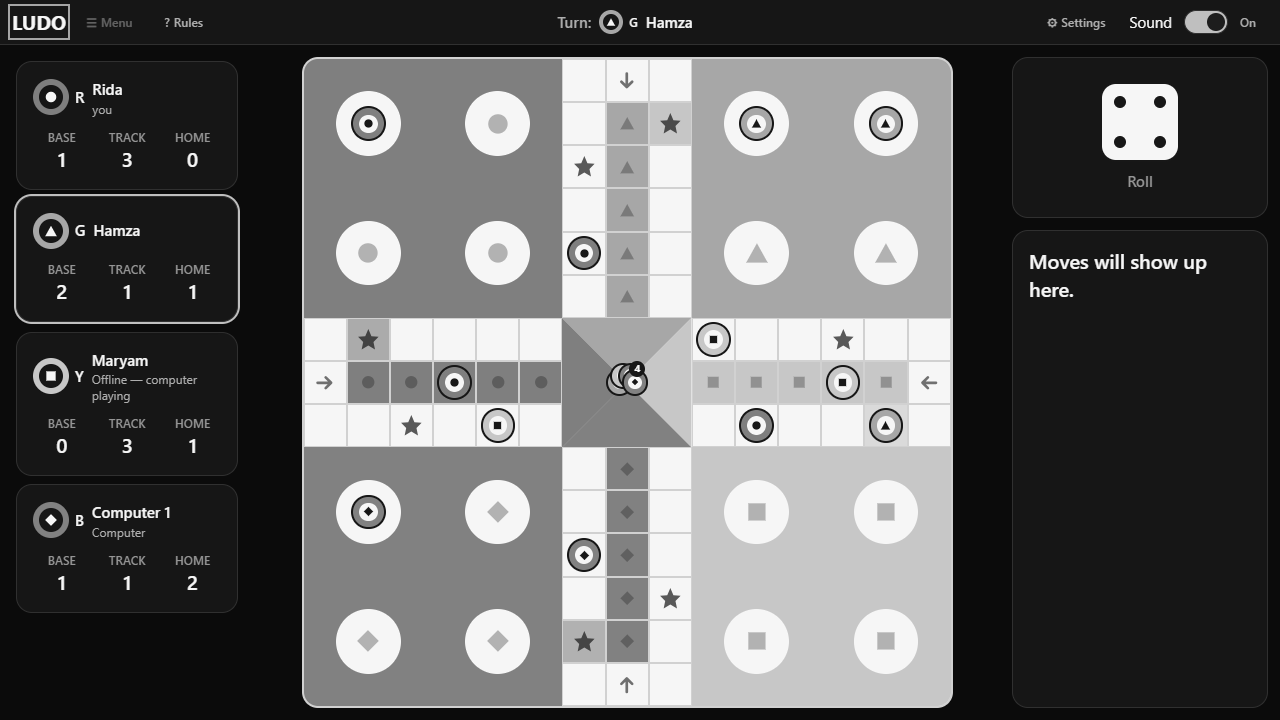
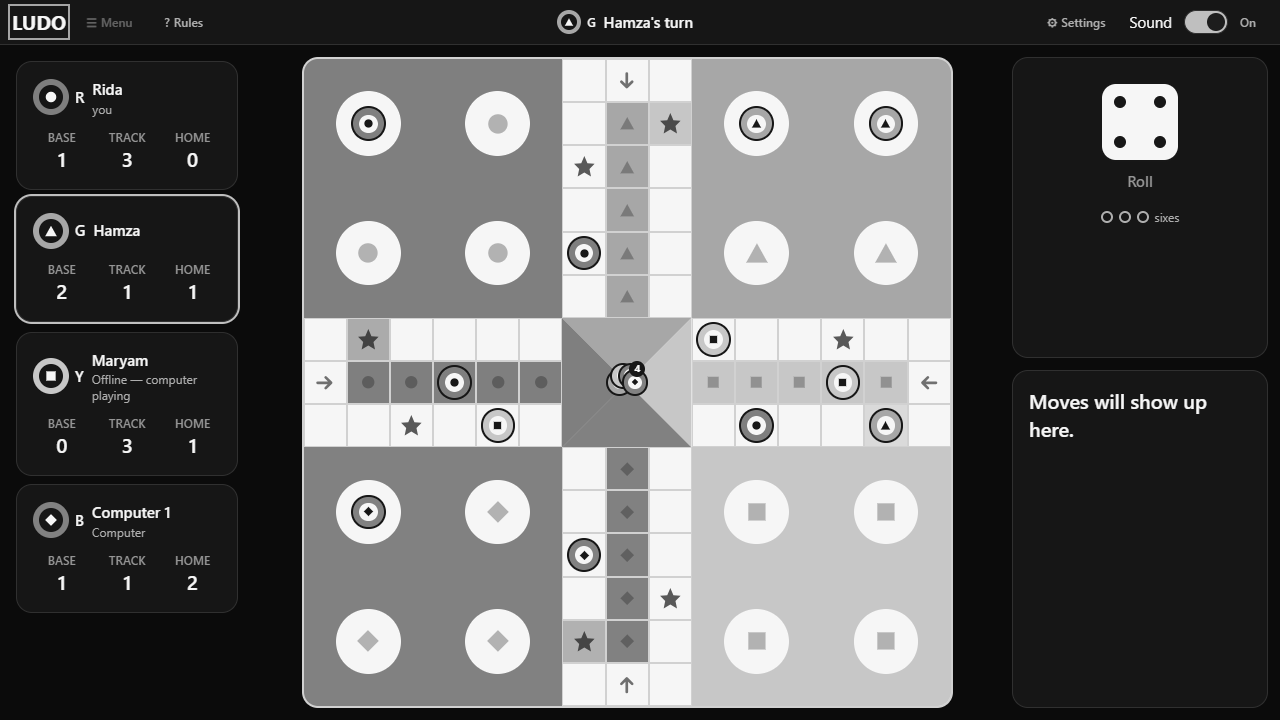
docs(traceability): record P7 evidence (FR-SYS-02, NFR-SYS-05, FR-SYS-07)
Adds the forced-roll checks against the mock and refreshes the screenshots
that the taller dice panel changed.

Changed region(s): [[0.8125, 0.275, 0.9375, 0.4278], [0.7812, 0.55, 0.9375, 0.6111], [0.4375, 0.0, 0.5312, 0.0611]]

diff --git a/docs/05-traceability.md b/docs/05-traceability.md
@@ -13,12 +13,12 @@ Status: `—` not started · `WIP` · `Done` · `Blocked (reason)`
 | D3 ID | D2 user stories | Build task(s) | Proof (test or manual check) | Status |
 |---|---|---|---|---|
 | FR-SYS-01 Start and configure | FR-01–06 | P5 | `src/screens/SetupScreen.test.tsx` and `src/screens/JoinForm.test.tsx` cover ALT-01-1 and EXC-01-1: a rejected or failed create or join keeps everything typed, shows the error under its field or as a message, and retries in one press. `src/store/gameStore.test.ts` covers the requests and `src/interaction/formChecks.test.ts` the name and code checks. `docs/evidence/FR-SYS-01-lobby-flow.md` shows it in Edge against the mock: two tabs create, join and start, with a real `NAME_TAKEN` and the server down. `docs/evidence/FR-SYS-09-game-screen-checks.md` shows 2, 3 and 4 seats in both modes reaching the real board. Only colour choice (FR-06) is left | Blocked (colour choice waits on the backend, `00-requirements.md` §5) |
-| FR-SYS-02 Turn and dice | FR-08–11 | P7 | `src/store/gameStore.test.ts` covers EXC-02-1: a second roll while one is pending sends nothing. `src/components/Dice.test.tsx` proves the die shows exactly the value it is given and ignores presses while rolling. `src/screens/GameScreen.test.tsx` proves the game screen shows `turn.lastRoll` on a die that can't be pressed yet. Still needed: rolling from the game screen; double-click sends one roll | WIP |
+| FR-SYS-02 Turn and dice | FR-08–11 | P7 | `src/store/gameStore.test.ts` covers EXC-02-1: a second roll while one is pending sends nothing. `src/components/Dice.test.tsx` proves the die shows exactly the value it is given and ignores presses while rolling. `src/screens/GameScreen.test.tsx` proves each of the five conditions alone stops a roll, a double click sends one roll, the turn text is right for each case, the die lands on the server's value, and a failed roll keeps the game and can be retried (EXC-02-2). `src/interaction/useDiceRoll.test.ts` covers the reply and the new state arriving in either order. `docs/evidence/FR-SYS-02-dice-checks.md` shows forced rolls of 1, 3 and 6 landing exactly in a real match | Done |
 | FR-SYS-03 Legal choices and move | FR-14–16, FR-18 | P8 | `src/store/gameStore.test.ts` covers EXC-03-2 in the store (an accepted move changes nothing until the snapshot arrives) and that legal moves come only from the server's list. `src/components/Piece.tsx` is a button only when it is told it can move, but has no test of its own. `src/screens/GameScreen.test.tsx` proves the board offers no piece to press until P8 connects it. Still needed: only `legalMoves` pieces are buttons; destination preview shown; EXC-03-1 | WIP |
 | FR-SYS-04 Invalid moves | FR-17 | P3, P8, P11 | `src/store/gameStore.test.ts` covers POST-04-1 (a rejected move leaves the snapshot deep-equal) and EXC-04-1 in the store (a timed-out command keeps state and clears pending). `src/adapter/LgsAdapter.test.ts` covers EXC-04-1 over a real socket (no ack, an ack for another request or an incomplete ack becomes `INTERNAL_ERROR`). Still needed: a test of the generic message (ALT-04-1); the explanation and a retry on the game screen (P8); recovery after a dropped connection (P11) | WIP |
 | FR-SYS-05 Animation and events | FR-19, FR-23, FR-36, FR-38 | P8, P9 | `src/store/gameStore.test.ts` proves an event never changes the snapshot. `src/components/MessageLog.tsx` exists but has no test of its own, and the game screen gives it no events yet. `src/components/PieceLayer.test.tsx` proves a moved piece keeps its element and lands where the geometry says, `src/feedback/motion.test.ts` covers how long it takes, and `docs/evidence/FR-SYS-09-game-screen-checks.md` measured 0 px error after a live move. It is one slide, not a step-by-step walk. Still needed: the walk (P8); animation off gives same final board; capture appears in message area | WIP |
 | FR-SYS-06 Progress and completion | FR-25–29 | P6, P10 | `src/config/geometry.test.ts` covers `progressCounts` and `src/store/gameStore.test.ts` covers `selectProgress` and `selectPlayerProgress`. `src/screens/GameScreen.test.tsx` checks Base, Track and Home against written-out numbers for all six fixtures, and that a dev-only check complains if `home` differs from `player.piecesHome`. `src/components/StatusPanel.test.tsx` covers the cards. `docs/evidence/FR-SYS-09-game-screen-checks.md` shows the cards matching the pieces in a live match. Still needed: winner screen only on `GAME_OVER` (P10) | WIP |
-| FR-SYS-07 Computer moves | FR-30–31 | P5, P7 | `src/store/gameStore.test.ts` covers `selectIsComputerTurn`. Choosing computer players is done: `src/screens/LobbyScreen.test.tsx` proves a seat fills only when `room:updated` arrives (POST-07-2), and `docs/evidence/FR-SYS-01-lobby-flow.md` shows it live in two tabs. `docs/evidence/FR-SYS-07-computer-move-from-snapshot.png` shows a computer's move drawn from a real snapshot on the game screen. Still needed: AI seat shows "Computer is thinking…" | WIP |
+| FR-SYS-07 Computer moves | FR-30–31 | P5, P7 | `src/store/gameStore.test.ts` covers `selectIsComputerTurn`. Choosing computer players is done: `src/screens/LobbyScreen.test.tsx` proves a seat fills only when `room:updated` arrives (POST-07-2), and `docs/evidence/FR-SYS-01-lobby-flow.md` shows it live in two tabs. `docs/evidence/FR-SYS-07-computer-move-from-snapshot.png` shows a computer's move drawn from a real snapshot on the game screen. `src/screens/GameScreen.test.tsx` proves a computer's turn says "Computer is thinking…" with the dots, and `docs/evidence/FR-SYS-07-computer-thinking.png` shows it in a real match | Done |
 | FR-SYS-08 Restart, exit, rematch | FR-32–34 | P5, P10 | `src/components/ConfirmDialog.test.tsx` covers the dialog alone. Leaving the lobby is connected: `src/screens/LobbyScreen.test.tsx` and `src/store/gameStore.test.ts` prove Cancel sends nothing (POST-08-1) and a failed leave keeps the room (POST-08-3), and `docs/evidence/FR-SYS-01-lobby-flow.md` shows Esc and Cancel changing nothing in a real browser. Still needed: confirm dialog on restart and leave during a game; cancel leaves the game unchanged | WIP |
 | FR-SYS-09 One-screen view | FR-35–36 | P6 | `docs/evidence/FR-SYS-09-one-screen-1280x720.png` and `docs/evidence/FR-SYS-09-game-screen-checks.md`: board, dice, turn, progress and messages all fit at 1280×720 with no scrolling, measured in Edge. Under 1024 px the layout stacks and hides nothing (ALT-09-1). `src/screens/GameScreen.test.tsx` proves every part is on the screen. P7 and P9 fill the dice and messages with live content | Done |
 | FR-SYS-10 Sound, animation, theme | FR-37–39 | P5, P8, P9 | `src/App.test.tsx` covers all three settings in the Settings modal and POST-10-2 and POST-10-3: changing them leaves the snapshot and room untouched and sends nothing to the server. `docs/evidence/FR-SYS-01-lobby-flow.md` shows the theme switching on every screen, and `docs/evidence/FR-SYS-10-game-light.png` shows the game screen in light theme. `src/screens/GameScreen.test.tsx` proves the top bar's sound switch leaves the snapshot alone. `docs/evidence/NFR-SYS-08-kitchen-sink-checks.md` shows On, Fast and Off changing how long CSS motion takes. Sound is stored but nothing uses it yet. Still needed: toggle each during a real game; game state unchanged | WIP |
@@ -29,14 +29,14 @@ Status: `—` not started · `WIP` · `Done` · `Blocked (reason)`
 
 | D3 ID | Build task(s) | Proof | Status |
 |---|---|---|---|
-| NFR-SYS-01 1 s acknowledgement | P4, P12 | `src/store/gameStore.test.ts` proves `pendingCommand` is set as soon as a roll is sent. `src/components/Button.test.tsx` and `src/components/Dice.test.tsx` prove the pending and rolling states. `docs/evidence/NFR-SYS-08-kitchen-sink-checks.md` shows "Rolling…" appearing at once. `src/screens/SetupScreen.test.tsx` and `src/screens/LobbyScreen.test.tsx` prove the pressed control shows pending at once on the real screens. Still needed: Performance-panel trace on the real screens | WIP |
+| NFR-SYS-01 1 s acknowledgement | P4, P12 | `src/store/gameStore.test.ts` proves `pendingCommand` is set as soon as a roll is sent. `src/components/Button.test.tsx` and `src/components/Dice.test.tsx` prove the pending and rolling states. `docs/evidence/NFR-SYS-08-kitchen-sink-checks.md` shows "Rolling…" appearing at once. `src/screens/SetupScreen.test.tsx`, `src/screens/LobbyScreen.test.tsx` and `src/screens/GameScreen.test.tsx` prove the pressed control shows pending at once on the real screens, and `docs/evidence/FR-SYS-02-dice-checks.md` shows it on the die in a real match. Still needed: Performance-panel trace on the real screens | WIP |
 | NFR-SYS-02 AI within 2 s | P12 | Dev log of AI turn durations over one game | — |
 | NFR-SYS-03 No crash | P6, P12 | The game screen has an error boundary. `src/components/ErrorBoundary.test.tsx` and `src/App.test.tsx` prove a snapshot that can't be drawn shows "Something went wrong — your game is safe" and a Try again button that sends `state:sync`, and that a good snapshot brings the board back. Tests only: the mock can't send a broken snapshot to a real browser. Still needed: a boundary on the other screens; 5 full games without a crash | WIP |
 | NFR-SYS-04 State kept on bad input | P3 | `src/store/gameStore.test.ts`: an older version is dropped, and a rejected or timed-out command leaves the snapshot deep-equal. `src/adapter/LgsAdapter.test.ts`: an incomplete reply is never applied. P11 adds the reconnect case | Done |
-| NFR-SYS-05 Dice not altered | P7 | `src/components/Dice.test.tsx`: the face equals the value given, and no number shows while rolling. A search finds no `Math.random` in `src/`. `src/screens/GameScreen.test.tsx` proves the game screen shows `turn.lastRoll`. Still needed: the die landing on the server's value after a real roll (P7) | WIP |
+| NFR-SYS-05 Dice not altered | P7 | `src/components/Dice.test.tsx`: the face equals the value given, and no number shows while rolling. A search finds no `Math.random` in `src/`, and `eslint.config.js` now rejects it outside tests. `src/screens/GameScreen.test.tsx` proves the die lands on the server's 6, 1 and 3. `docs/evidence/FR-SYS-02-dice-checks.md` and `docs/evidence/NFR-SYS-05-die-shows-six.png` show the same forced rolls in a real match | Done |
 | NFR-SYS-06 First-timer completes a turn | P12 | Hallway test with one person; note result | — |
 | NFR-SYS-07 Not colour alone | P4, P12 | `docs/evidence/NFR-SYS-07-player-marks.png`: the `PlayerMark` row in grayscale, where shape and letter still tell the four players apart. `PlayerMark` and `Piece` read `PLAYER_IDENTITY` in `src/config/players.ts`. `src/screens/LobbyScreen.test.tsx` proves every lobby seat shows its mark, empty seats included. `src/components/StatusPanel.test.tsx` proves the game screen's cards show more than colour, and `docs/evidence/NFR-SYS-07-board-grayscale.png` shows the board and status panel in grayscale. Still needed: repeat it once P8 adds move highlights | WIP |
-| NFR-SYS-08 Simple wording + keyboard | P4–P10, P12 | `src/components/SegmentedControl.test.tsx`, `src/components/Dice.test.tsx`, `src/App.test.tsx` and `docs/evidence/NFR-SYS-08-kitchen-sink-checks.md` cover the controls on their own. `docs/evidence/FR-SYS-01-lobby-flow.md` records a keyboard-only run from the main screen through setup and the lobby to the game starting, and `docs/evidence/FR-SYS-09-game-screen-checks.md` records the Tab order and the `?` and Esc keys on the game screen. Player-facing text is in `src/feedback/copy.ts`. Still needed: whole game played keyboard-only | WIP |
+| NFR-SYS-08 Simple wording + keyboard | P4–P10, P12 | `src/components/SegmentedControl.test.tsx`, `src/components/Dice.test.tsx`, `src/App.test.tsx` and `docs/evidence/NFR-SYS-08-kitchen-sink-checks.md` cover the controls on their own. `docs/evidence/FR-SYS-01-lobby-flow.md` records a keyboard-only run from the main screen through setup and the lobby to the game starting, and `docs/evidence/FR-SYS-09-game-screen-checks.md` records the Tab order and the `?` and Esc keys on the game screen. `src/interaction/useGameKeys.test.ts` covers the `R` key, and `docs/evidence/FR-SYS-02-dice-checks.md` shows rolling by `R` and Space with the die keeping focus. Player-facing text is in `src/feedback/copy.ts`. Still needed: whole game played keyboard-only | WIP |
 | NFR-SYS-09 Chrome / Firefox / Edge | P12 | Not run yet. Every browser check so far used headless Edge (`docs/evidence/FR-SYS-09-game-screen-checks.md`); Chrome and Firefox have not been tried. Still needed: a smoke test in each | — |
 | NFR-SYS-10 Window sizes | P6, P12 | `docs/evidence/NFR-SYS-10-1024-wide.png`, `docs/evidence/NFR-SYS-10-1366-wide.png` and `docs/evidence/NFR-SYS-10-1920-wide.png`, with measurements in `docs/evidence/FR-SYS-09-game-screen-checks.md`: the game screen has no scrolling and every part in view. Still needed: the main, setup and lobby screens at these widths; repeat once P7 to P10 add their controls (P12) | WIP |
 | NFR-SYS-11 Rules in config | P1, P5, P6 | `src/config/geometry.test.ts` covers board geometry for all 4 colours. `mock-server/server.test.ts` proves `POST /debug/rules` changes `safeSquares` for the next match. `src/components/RulesSummary.test.tsx` proves the rules text follows `RuleConfig`. `src/App.test.tsx` proves the lobby and the game screen show the room's own rules, not the standard ones. `src/components/BoardGrid.test.tsx` proves stars follow the list they are given. `docs/evidence/NFR-SYS-11-default-board.png`, `docs/evidence/NFR-SYS-11-changed-board.png`, `docs/evidence/NFR-SYS-11-default-rules.png` and `docs/evidence/NFR-SYS-11-changed-rules.png` show `POST /debug/rules` moving the stars and changing the rules text with no code change | Done |

diff --git a/docs/evidence/FR-SYS-02-dice-checks.md b/docs/evidence/FR-SYS-02-dice-checks.md
@@ -1,0 +1,51 @@
+# Dice and turn checks (P7)
+
+Run on 2026-11-09 in headless Edge, using the real app and the mock server (`mock-server --debug`).
+The match had one person and 3 computer players, a 10-second turn timer and a 300 ms computer
+delay. Rolls were forced with `POST /debug/force-roll`.
+
+## The die lands on the server's value (FR-SYS-02 POST-02-2, NFR-SYS-05)
+
+| Forced | Pressed with | Pending at once? | Blank while tumbling? | Face after landing | Time to land |
+|---|---|---|---|---|---|
+| 1 | Double click | Yes | Yes | 1 | About 630 ms |
+| 3 | `R` key | Yes | Yes | 3 | About 615 ms |
+| 1 | `R` key, Animations set to Off | Landed before the first check | Landed before the first check | 1 | Under 160 ms, about 120 ms of it the test script's own pause |
+| 6 | Space on the die | Yes | Yes | 6 | About 620 ms |
+
+The double click caused no "You already rolled" message (FR-SYS-02 EXC-02-1).
+`NFR-SYS-05-die-shows-six.png` shows the die after the forced 6.
+
+## Whose turn it is (FR-SYS-02 POST-02-1, FR-SYS-07)
+
+- **My turn to roll:** "Your turn — roll the dice", and the die can be pressed
+  (`FR-SYS-02-your-turn.png`).
+- **After my roll:** "Your turn — pick a piece", and the die can't be pressed.
+- **A computer's turn:** "Computer is thinking…" with moving dots, and the die can't be pressed
+  (`FR-SYS-07-computer-thinking.png`). Pressing `R` during it did nothing.
+- **Screen reader:** the hidden "Your turn" announcement filled in when the turn came to me.
+- **Sixes counter:** one pip filled after the forced 6.
+
+## Countdown and timeout
+
+- The ring works from the server's deadline: it read 9 seconds, then 7 seconds 2.1 s later.
+- In two runs "Time's up — the computer will play for you." showed for about 1 second (1003 ms
+  and 1002 ms).
+- The app sent nothing. With no press from me, the server brought my piece out 9.2 to 9.3 s after
+  my last roll.
+
+## Other checks
+
+- **Keyboard (NFR-SYS-08):** the die keeps keyboard focus through a roll. Tab now goes Rules,
+  Settings, Sound, the die.
+- **Window sizes (FR-SYS-09, NFR-SYS-10):** re-measured with the taller dice panel. There is still
+  no page scrolling and every part is in view at 1280×720, 1024×768, 1366×768 and 1920×1080, and no
+  sideways scrolling at 1000, 800 or 360 px wide.
+- **Console:** no errors in any run.
+
+## Not checked here
+
+- A roll the server refuses (EXC-02-2) and a reply that arrives before the new state are proved by
+  `src/screens/GameScreen.test.tsx` and `src/interaction/useDiceRoll.test.ts` only. The mock can't
+  be told to refuse a roll, and it always sends the new state first.
+- Only Edge and the mock have been tried.

diff --git a/CHANGELOG.md b/CHANGELOG.md
@@ -7,3 +7,4 @@
 - P4: 17 shared components with a dev-only kitchen sink, message and rules copy, and colour tokens that meet the contrast target (NFR-SYS-07, NFR-SYS-08, NFR-SYS-01).
 - P5: main screen, setup, join, lobby, settings and rules, with a stand-in game screen until P6 (FR-SYS-01, FR-SYS-10, D2 FR-07, FR-SYS-07).
 - P6: read-only game screen with board, pieces, status panel, message area, crash screen and dev-only fixtures (FR-SYS-09, FR-SYS-06, NFR-SYS-10, NFR-SYS-11, NFR-SYS-03, D2 FR-07).
+- P7: rolling the die, turn text, sixes counter and countdown, with the `R` key and a lint rule against `Math.random` (FR-SYS-02, NFR-SYS-05, FR-SYS-07).

diff --git a/docs/evidence/FR-SYS-09-game-screen-checks.md b/docs/evidence/FR-SYS-09-game-screen-checks.md
@@ -60,8 +60,8 @@ column:
 
 ## Other checks
 
-- **Keyboard (NFR-SYS-08):** Tab goes Rules, Settings, Sound. Menu and the die are skipped because
-  they are disabled until P10 and P7. `?` opens the rules and Esc closes them.
+- **Keyboard (NFR-SYS-08):** Tab goes Rules, Settings, Sound, and since P7 the die. Menu is skipped
+  because it is disabled until P10. `?` opens the rules and Esc closes them.
 - **Grayscale (NFR-SYS-07):** `NFR-SYS-07-board-grayscale.png`. Shapes still tell the four players
   apart on pieces, yards and home columns.
 - **Light theme (FR-SYS-10):** `FR-SYS-10-game-light.png`.
